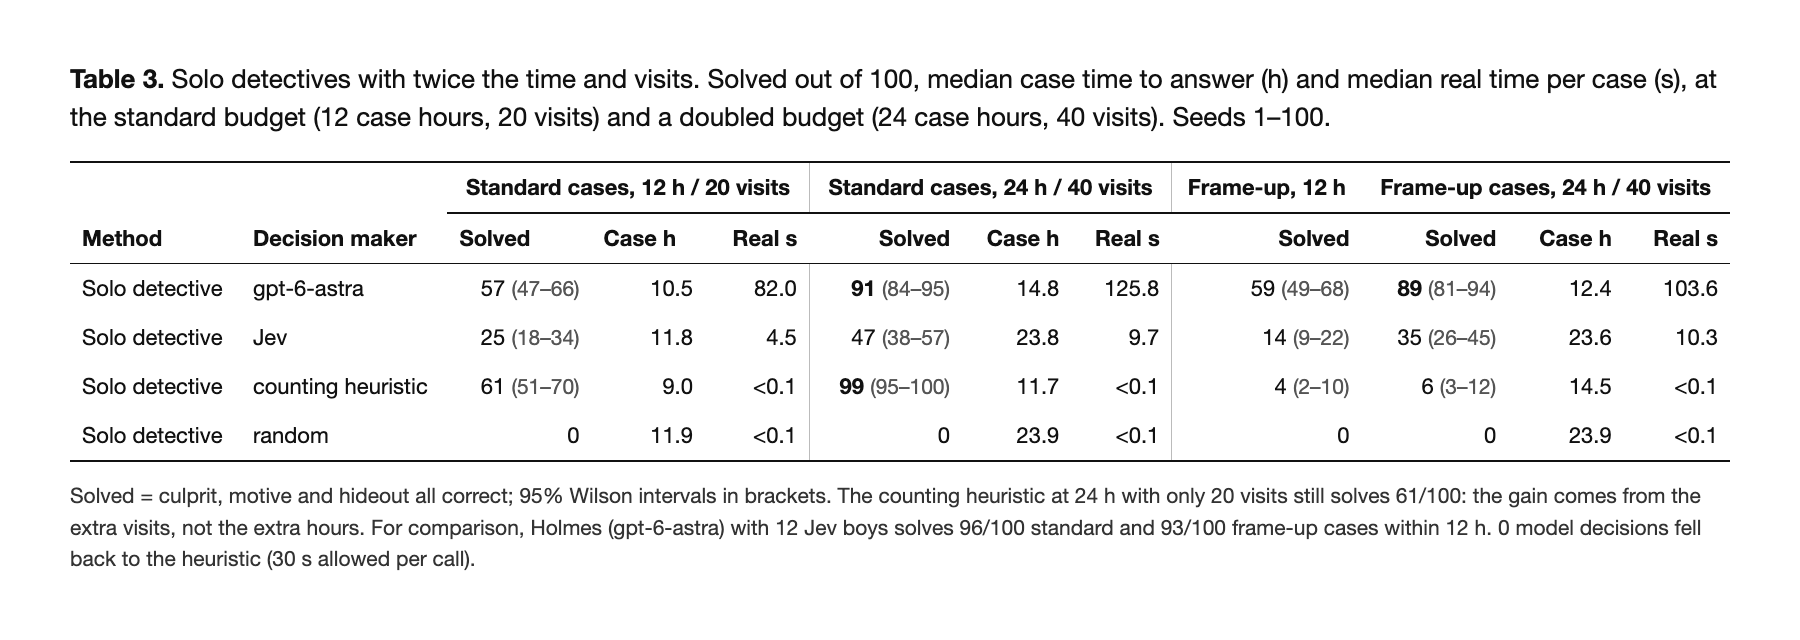
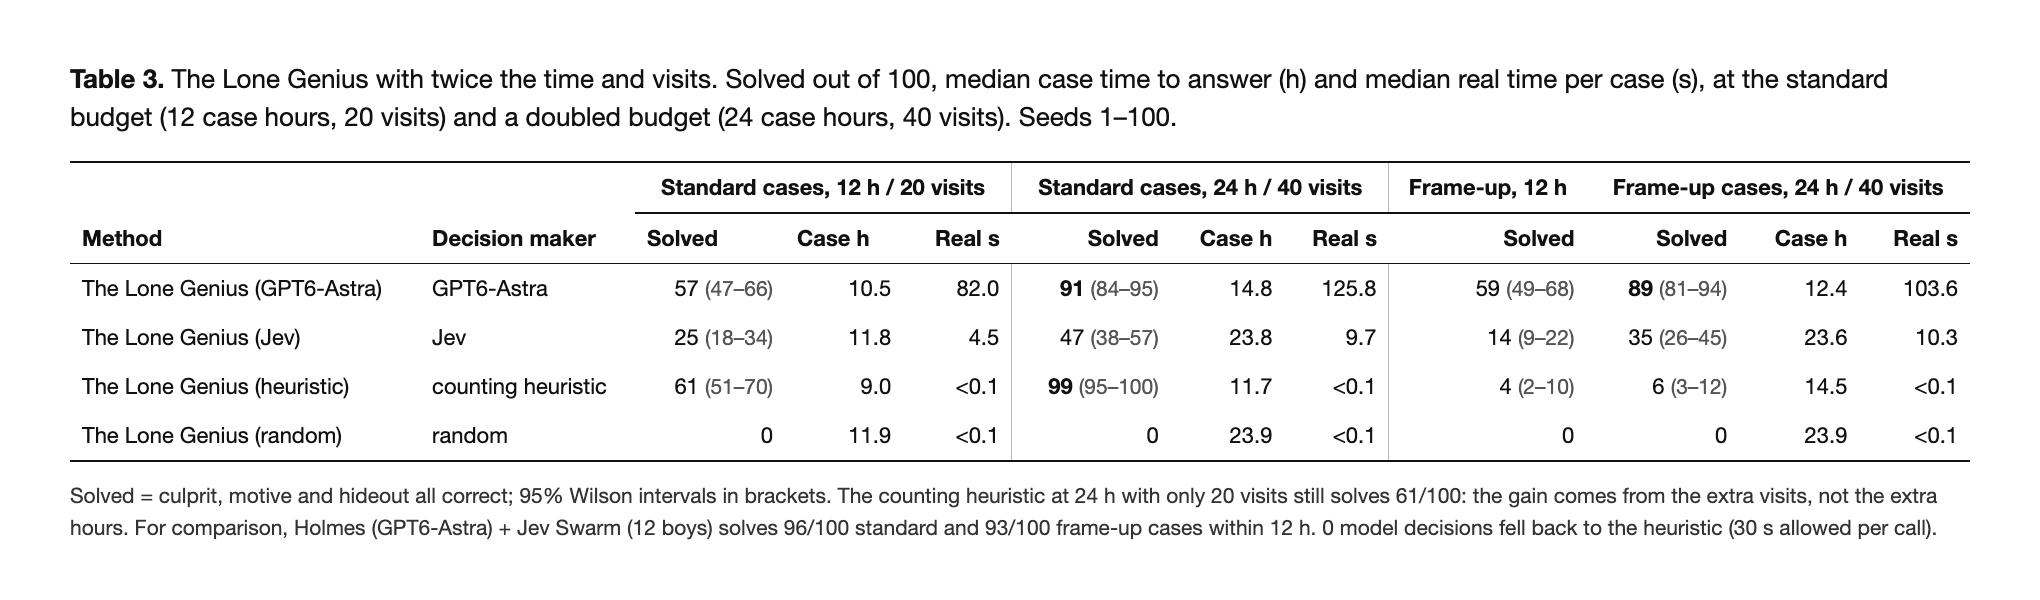
Holmes: tables and summary use the trailer's names (The Lone Genius (GPT6-Astra), Holmes (GPT6-Astra) + Jev Swarm, Jev Swarm)

diff --git a/holmes/trailer/table3_solo_24h.html b/holmes/trailer/table3_solo_24h.html
@@ -14,9 +14,9 @@
   td.best { font-weight: 700; }
   .ci { color: #555; font-size: 21px; }
   .note { font-size: 21px; color: #333; margin-top: 18px; line-height: 1.5; }
-</style></head><body>
+</style></head><body style="width:2040px">
 <style>th, td { padding: 11px 12px; font-size: 22px; } th.sep, td:nth-child(6), td:nth-child(9) { border-left: 1px solid #bbb; }</style>
-<div class="cap"><b>Table 3.</b> Solo detectives with twice the time and visits. Solved out of 100, median case time to answer (h) and median real time per case (s),
+<div class="cap"><b>Table 3.</b> The Lone Genius with twice the time and visits. Solved out of 100, median case time to answer (h) and median real time per case (s),
 at the standard budget (12 case hours, 20 visits) and a doubled budget (24 case hours, 40 visits). Seeds 1&ndash;100.</div>
 <table>
 <thead>
@@ -26,11 +26,11 @@ at the standard budget (12 case hours, 20 visits) and a doubled budget (24 case 
 <tr><th>Solved</th><th>Case h</th><th>Real s</th><th>Solved</th><th>Case h</th><th>Real s</th><th>Solved</th><th>Solved</th><th>Case h</th><th>Real s</th></tr>
 </thead>
 <tbody>
-<tr><td>Solo detective</td><td>gpt-6-astra</td><td>57 <span class='ci'>(47&ndash;66)</span></td><td>10.5</td><td>82.0</td><td><b>91</b> <span class='ci'>(84&ndash;95)</span></td><td>14.8</td><td>125.8</td><td>59 <span class='ci'>(49&ndash;68)</span></td><td><b>89</b> <span class='ci'>(81&ndash;94)</span></td><td>12.4</td><td>103.6</td></tr>
-<tr><td>Solo detective</td><td>Jev</td><td>25 <span class='ci'>(18&ndash;34)</span></td><td>11.8</td><td>4.5</td><td>47 <span class='ci'>(38&ndash;57)</span></td><td>23.8</td><td>9.7</td><td>14 <span class='ci'>(9&ndash;22)</span></td><td>35 <span class='ci'>(26&ndash;45)</span></td><td>23.6</td><td>10.3</td></tr>
-<tr><td>Solo detective</td><td>counting heuristic</td><td>61 <span class='ci'>(51&ndash;70)</span></td><td>9.0</td><td>&lt;0.1</td><td><b>99</b> <span class='ci'>(95&ndash;100)</span></td><td>11.7</td><td>&lt;0.1</td><td>4 <span class='ci'>(2&ndash;10)</span></td><td>6 <span class='ci'>(3&ndash;12)</span></td><td>14.5</td><td>&lt;0.1</td></tr>
-<tr><td>Solo detective</td><td>random</td><td>0</td><td>11.9</td><td>&lt;0.1</td><td>0</td><td>23.9</td><td>&lt;0.1</td><td>0</td><td>0</td><td>23.9</td><td>&lt;0.1</td></tr>
+<tr><td>The Lone Genius (GPT6-Astra)</td><td>GPT6-Astra</td><td>57 <span class='ci'>(47&ndash;66)</span></td><td>10.5</td><td>82.0</td><td><b>91</b> <span class='ci'>(84&ndash;95)</span></td><td>14.8</td><td>125.8</td><td>59 <span class='ci'>(49&ndash;68)</span></td><td><b>89</b> <span class='ci'>(81&ndash;94)</span></td><td>12.4</td><td>103.6</td></tr>
+<tr><td>The Lone Genius (Jev)</td><td>Jev</td><td>25 <span class='ci'>(18&ndash;34)</span></td><td>11.8</td><td>4.5</td><td>47 <span class='ci'>(38&ndash;57)</span></td><td>23.8</td><td>9.7</td><td>14 <span class='ci'>(9&ndash;22)</span></td><td>35 <span class='ci'>(26&ndash;45)</span></td><td>23.6</td><td>10.3</td></tr>
+<tr><td>The Lone Genius (heuristic)</td><td>counting heuristic</td><td>61 <span class='ci'>(51&ndash;70)</span></td><td>9.0</td><td>&lt;0.1</td><td><b>99</b> <span class='ci'>(95&ndash;100)</span></td><td>11.7</td><td>&lt;0.1</td><td>4 <span class='ci'>(2&ndash;10)</span></td><td>6 <span class='ci'>(3&ndash;12)</span></td><td>14.5</td><td>&lt;0.1</td></tr>
+<tr><td>The Lone Genius (random)</td><td>random</td><td>0</td><td>11.9</td><td>&lt;0.1</td><td>0</td><td>23.9</td><td>&lt;0.1</td><td>0</td><td>0</td><td>23.9</td><td>&lt;0.1</td></tr>
 </tbody></table>
 <div class="note">Solved = culprit, motive and hideout all correct; 95% Wilson intervals in brackets. The counting heuristic at 24 h with only 20 visits still solves 61/100:
-the gain comes from the extra visits, not the extra hours. For comparison, Holmes (gpt-6-astra) with 12 Jev boys solves 96/100 standard and 93/100 frame-up cases within 12 h. 0 model decisions fell back to the heuristic (30 s allowed per call).</div>
+the gain comes from the extra visits, not the extra hours. For comparison, Holmes (GPT6-Astra) + Jev Swarm (12 boys) solves 96/100 standard and 93/100 frame-up cases within 12 h. 0 model decisions fell back to the heuristic (30 s allowed per call).</div>
 </body></html>

diff --git a/holmes/trailer/figure_table.html b/holmes/trailer/figure_table.html
@@ -21,19 +21,19 @@ A case is solved only if the culprit, motive and hideout are all correct.</div>
 <thead><tr><th>Method</th><th>Decision makers</th><th>Solved / 100<br><span class="ci">(95% CI)</span></th>
 <th>Case time to answer<br><span class="ci">median, h</span></th><th>Real time per case<br><span class="ci">median, s</span></th><th>Cost per case<br><span class="ci">USD</span></th></tr></thead>
 <tbody>
-<tr class="group"><td colspan="6">Single detective</td></tr>
-<tr><td>Solo detective</td><td>gpt-6-astra</td><td>57 <span class="ci">(47&ndash;66)</span></td><td>10.5</td><td>82.0</td><td>0.339</td></tr>
-<tr><td>Solo detective</td><td>Jev</td><td>25 <span class="ci">(18&ndash;34)</span></td><td>11.8</td><td>4.5</td><td>0.005</td></tr>
-<tr><td>Solo detective</td><td>counting heuristic</td><td>61 <span class="ci">(51&ndash;70)</span></td><td>9.0</td><td>&lt;0.1</td><td>0</td></tr>
-<tr class="group"><td colspan="6">Lead with 12 helpers (Holmes &amp; the Irregulars)</td></tr>
-<tr><td>Holmes + boys</td><td>gpt-6-astra + Jev</td><td class="best">96 <span class="ci">(90&ndash;98)</span></td><td>11.0</td><td>96.5</td><td>0.582</td></tr>
-<tr><td>Holmes + boys</td><td>counting + Jev</td><td>95 <span class="ci">(89&ndash;98)</span></td><td>7.8</td><td>4.9</td><td>0.002</td></tr>
-<tr><td>Holmes + boys</td><td>counting + heuristic</td><td class="best">97 <span class="ci">(92&ndash;99)</span></td><td>8.8</td><td>&lt;0.1</td><td>0</td></tr>
-<tr class="group"><td colspan="6">Leaderless swarm (100 boys, 2 km range, closes at 30 identical votes)</td></tr>
-<tr><td>Swarm</td><td>Jev</td><td>38 <span class="ci">(29&ndash;48)</span></td><td>2.2</td><td>8.9</td><td>0.149</td></tr>
-<tr><td>Swarm</td><td>counting heuristic</td><td>95 <span class="ci">(89&ndash;98)</span></td><td>1.5</td><td>0.1</td><td>0</td></tr>
+<tr class="group"><td colspan="6">The Lone Genius (single detective)</td></tr>
+<tr><td>The Lone Genius (GPT6-Astra)</td><td>GPT6-Astra</td><td>57 <span class="ci">(47&ndash;66)</span></td><td>10.5</td><td>82.0</td><td>0.339</td></tr>
+<tr><td>The Lone Genius (Jev)</td><td>Jev</td><td>25 <span class="ci">(18&ndash;34)</span></td><td>11.8</td><td>4.5</td><td>0.005</td></tr>
+<tr><td>The Lone Genius (heuristic)</td><td>counting heuristic</td><td>61 <span class="ci">(51&ndash;70)</span></td><td>9.0</td><td>&lt;0.1</td><td>0</td></tr>
+<tr class="group"><td colspan="6">Holmes leading a 12-boy swarm (Holmes &amp; the Irregulars)</td></tr>
+<tr><td>Holmes (GPT6-Astra) + Jev Swarm</td><td>GPT6-Astra + Jev</td><td class="best">96 <span class="ci">(90&ndash;98)</span></td><td>11.0</td><td>96.5</td><td>0.582</td></tr>
+<tr><td>Holmes (heuristic) + Jev Swarm</td><td>counting + Jev</td><td>95 <span class="ci">(89&ndash;98)</span></td><td>7.8</td><td>4.9</td><td>0.002</td></tr>
+<tr><td>Holmes (heuristic) + heuristic Swarm</td><td>counting + heuristic</td><td class="best">97 <span class="ci">(92&ndash;99)</span></td><td>8.8</td><td>&lt;0.1</td><td>0</td></tr>
+<tr class="group"><td colspan="6">Leaderless swarm (100 boys, 2 km range, closes when 30 agree)</td></tr>
+<tr><td>Jev Swarm</td><td>Jev</td><td>38 <span class="ci">(29&ndash;48)</span></td><td>2.2</td><td>8.9</td><td>0.149</td></tr>
+<tr><td>heuristic Swarm</td><td>counting heuristic</td><td>95 <span class="ci">(89&ndash;98)</span></td><td>1.5</td><td>0.1</td><td>0</td></tr>
 </tbody></table>
 <div class="note">Case time is simulated time inside the story; real time is wall-clock seconds to run one case. 95% intervals are Wilson intervals.
-0 of all model decisions fell back to the heuristic (30 s allowed per call). The Jev swarm reached a 30-vote agreement in 91 cases, 53 of them on a wrong answer.
-On a separate set of 20 deceptive (frame-up) cases, the counting Holmes solved 0 and the gpt-6-astra Holmes 17.</div>
+0 of all model decisions fell back to the heuristic (30 s allowed per call). The Jev Swarm reached a 30-vote agreement in 91 cases, 53 of them on a wrong answer.
+On 100 deceptive (frame-up) cases, Holmes (heuristic) + Jev Swarm solved 0 and Holmes (GPT6-Astra) + Jev Swarm 93 (Table 2).</div>
 </body></html>

diff --git a/holmes/trailer/make_table2.py b/holmes/trailer/make_table2.py
@@ -10,20 +10,20 @@ sys.path.insert(0, os.path.dirname(HERE))
 from irregulars.report import rows_from, summarise  # noqa: E402
 
 ORDER = [  # (group, method, decision makers, report setting label without the " · Holmesian" suffix)
-    ("Single detective", "Solo detective", "gpt-6-astra", "Solo detective · gpt-6-astra"),
-    ("Single detective", "Solo detective", "Jev", "Solo detective · Jev"),
-    ("Single detective", "Solo detective", "counting heuristic", "Solo detective · heuristic"),
-    ("Lead with 12 helpers (Holmes &amp; the Irregulars)", "Holmes + boys", "gpt-6-astra + Jev",
+    ("The Lone Genius (single detective)", "The Lone Genius (GPT6-Astra)", "GPT6-Astra", "Solo detective · gpt-6-astra"),
+    ("The Lone Genius (single detective)", "The Lone Genius (Jev)", "Jev", "Solo detective · Jev"),
+    ("The Lone Genius (single detective)", "The Lone Genius (heuristic)", "counting heuristic", "Solo detective · heuristic"),
+    ("Holmes leading a 12-boy swarm (Holmes &amp; the Irregulars)", "Holmes (GPT6-Astra) + Jev Swarm", "GPT6-Astra + Jev",
      "Baker Street Irregulars · gpt-6-astra Holmes, Jev boys"),
-    ("Lead with 12 helpers (Holmes &amp; the Irregulars)", "Holmes + boys", "counting + Jev",
+    ("Holmes leading a 12-boy swarm (Holmes &amp; the Irregulars)", "Holmes (heuristic) + Jev Swarm", "counting + Jev",
      "Baker Street Irregulars · counting-heuristic Holmes, Jev boys"),
-    ("Lead with 12 helpers (Holmes &amp; the Irregulars)", "Holmes + boys", "counting + heuristic",
+    ("Holmes leading a 12-boy swarm (Holmes &amp; the Irregulars)", "Holmes (heuristic) + heuristic Swarm", "counting + heuristic",
      "Baker Street Irregulars · counting-heuristic Holmes, heuristic boys"),
-    ("Leaderless swarm (100 boys, 2 km range, closes at 30 identical votes)", "Swarm", "Jev",
+    ("Leaderless swarm (100 boys, 2 km range, closes when 30 agree)", "Jev Swarm", "Jev",
      "Swarm Detectives · Jev swarm · 2 km"),
-    ("Leaderless swarm (100 boys, 2 km range, closes at 30 identical votes)", "Swarm", "hybrid (Jev moves, counting votes)",
+    ("Leaderless swarm (100 boys, 2 km range, closes when 30 agree)", "Hybrid Swarm", "Jev moves, counting votes",
      "Swarm Detectives · hybrid · 2 km"),
-    ("Leaderless swarm (100 boys, 2 km range, closes at 30 identical votes)", "Swarm", "counting heuristic",
+    ("Leaderless swarm (100 boys, 2 km range, closes when 30 agree)", "heuristic Swarm", "counting heuristic",
      "Swarm Detectives · heuristic swarm · 2 km"),
 ]
 

diff --git a/holmes/trailer/assets/irregulars_summary.md b/holmes/trailer/assets/irregulars_summary.md
@@ -1,0 +1,15 @@
+Wanting to share some fun hack by putting a side by side comparison among Astra, Astra leader + Jev swarm, Jev swarm in Holmes detective game.
+
+Setup: we built "The Irregulars", a Victorian London murder game: a seeded city of 100 addresses and 10 suspects, where each address holds one lead and some leads are lies. To solve a case you must name the culprit, the motive and the hideout within 12 case hours. Three ways to play:
+- The Lone Genius (GPT6-Astra): GPT6-Astra alone, one cab, 20 visits.
+- Holmes (GPT6-Astra) + Jev Swarm: GPT6-Astra as Holmes at 221B, directing a swarm of 12 Jev "street boys" who run errands and report back.
+- Jev Swarm: 100 Jev boys and no leader. They share clues with the boys nearby and vote; the case closes when 30 agree.
+
+Interesting findings (100 cases each, 0 fallbacks):
+1. A leader with a swarm wins clearly: Holmes (GPT6-Astra) + Jev Swarm solves 96/100 standard cases, vs 57 for The Lone Genius (GPT6-Astra) and 38 for the leaderless Jev Swarm.
+2. The Lone Genius is limited by legwork, not reasoning. With twice the time and visits (24 h, 40 visits) GPT6-Astra reaches 91/100, but takes ~15 case hours and ~2 min per case. Holmes (GPT6-Astra) + Jev Swarm gets 96 within 11 case hours by searching in parallel.
+3. The Jev Swarm converges fast but often on the wrong answer. It reaches a 30-vote agreement in 91/100 cases (median 2.2 case hours, 9 s real time), but 53 of those agreements are wrong. Agreeing is not the same as being right.
+4. When somebody lies, reasoning matters. In 100 frame-up cases, where the murderer bribes his servants to frame an innocent man, Holmes (GPT6-Astra) + Jev Swarm still solves 93, The Lone Genius (GPT6-Astra) 59 and the Jev Swarm 42. Holmes (heuristic) + heuristic Swarm, which simply counts clues, solves 1 (0 with Jev boys), because the coordinated lie outnumbers the truth.
+5. On honest cases, a simple counting rule is enough. Holmes (heuristic) + Jev Swarm solves 95/100, ~30% faster in case time and ~20x faster in real time (5 s vs 97 s per case). The structure (one leader, a swarm of helpers) carries the easy cases; a reasoning leader is what survives deception.
+
+Attached: the trailer, 3 clips (one per method, from the real benchmark runs of the same case) and 3 tables (standard cases; frame-up cases; The Lone Genius at 24 h / 40 visits).
